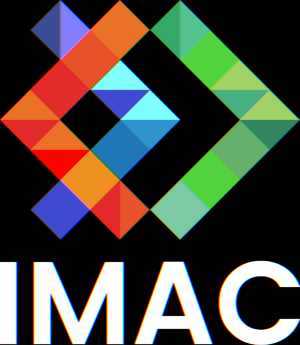
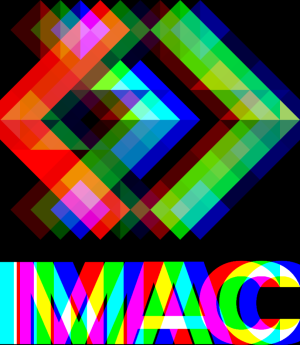
Fix split

diff --git a/src/main.cpp b/src/main.cpp
@@ -113,14 +113,17 @@ void rotation(sil::Image& image)
 
 void split(sil::Image& image)
 {
+    int val = 20;
     int width = image.width();
     int height = image.height();
+
     sil::Image splitImg (width,height);
+
     for (int x{0}; x < width; x++){
     for (int y{0}; y < height; y++)
     {
-    glm::vec3 leftpix = (x > 0) ? image.pixel(x - 1, y) : image.pixel(x,y);
-    glm::vec3 rightpix = (x < width - 1) ? image.pixel(x + 1, y) : image.pixel(x,y);
+    glm::vec3 leftpix = (x >= val) ? image.pixel(x - val, y) : image.pixel(x,y);
+    glm::vec3 rightpix = (x < width - val) ? image.pixel(x + val, y) : image.pixel(x,y);
 
     glm::vec3 newcolor (rightpix.r, image.pixel(x,y).g, leftpix.b);
 
@@ -128,6 +131,11 @@ void split(sil::Image& image)
     }
     }
     image = splitImg;
+}
+
+void luminosite(sil::Image& image)
+{
+
 }
 
 int main()
@@ -182,5 +190,11 @@ int main()
         sil::Image image{"images/logo.png"}; 
         split(image); 
         image.save("output/split.png");
+    }
+
+    {
+        sil::Image image{"images/logo.png"}; 
+        luminosite(image); 
+        image.save("output/luminosite.png");
     }
 }
